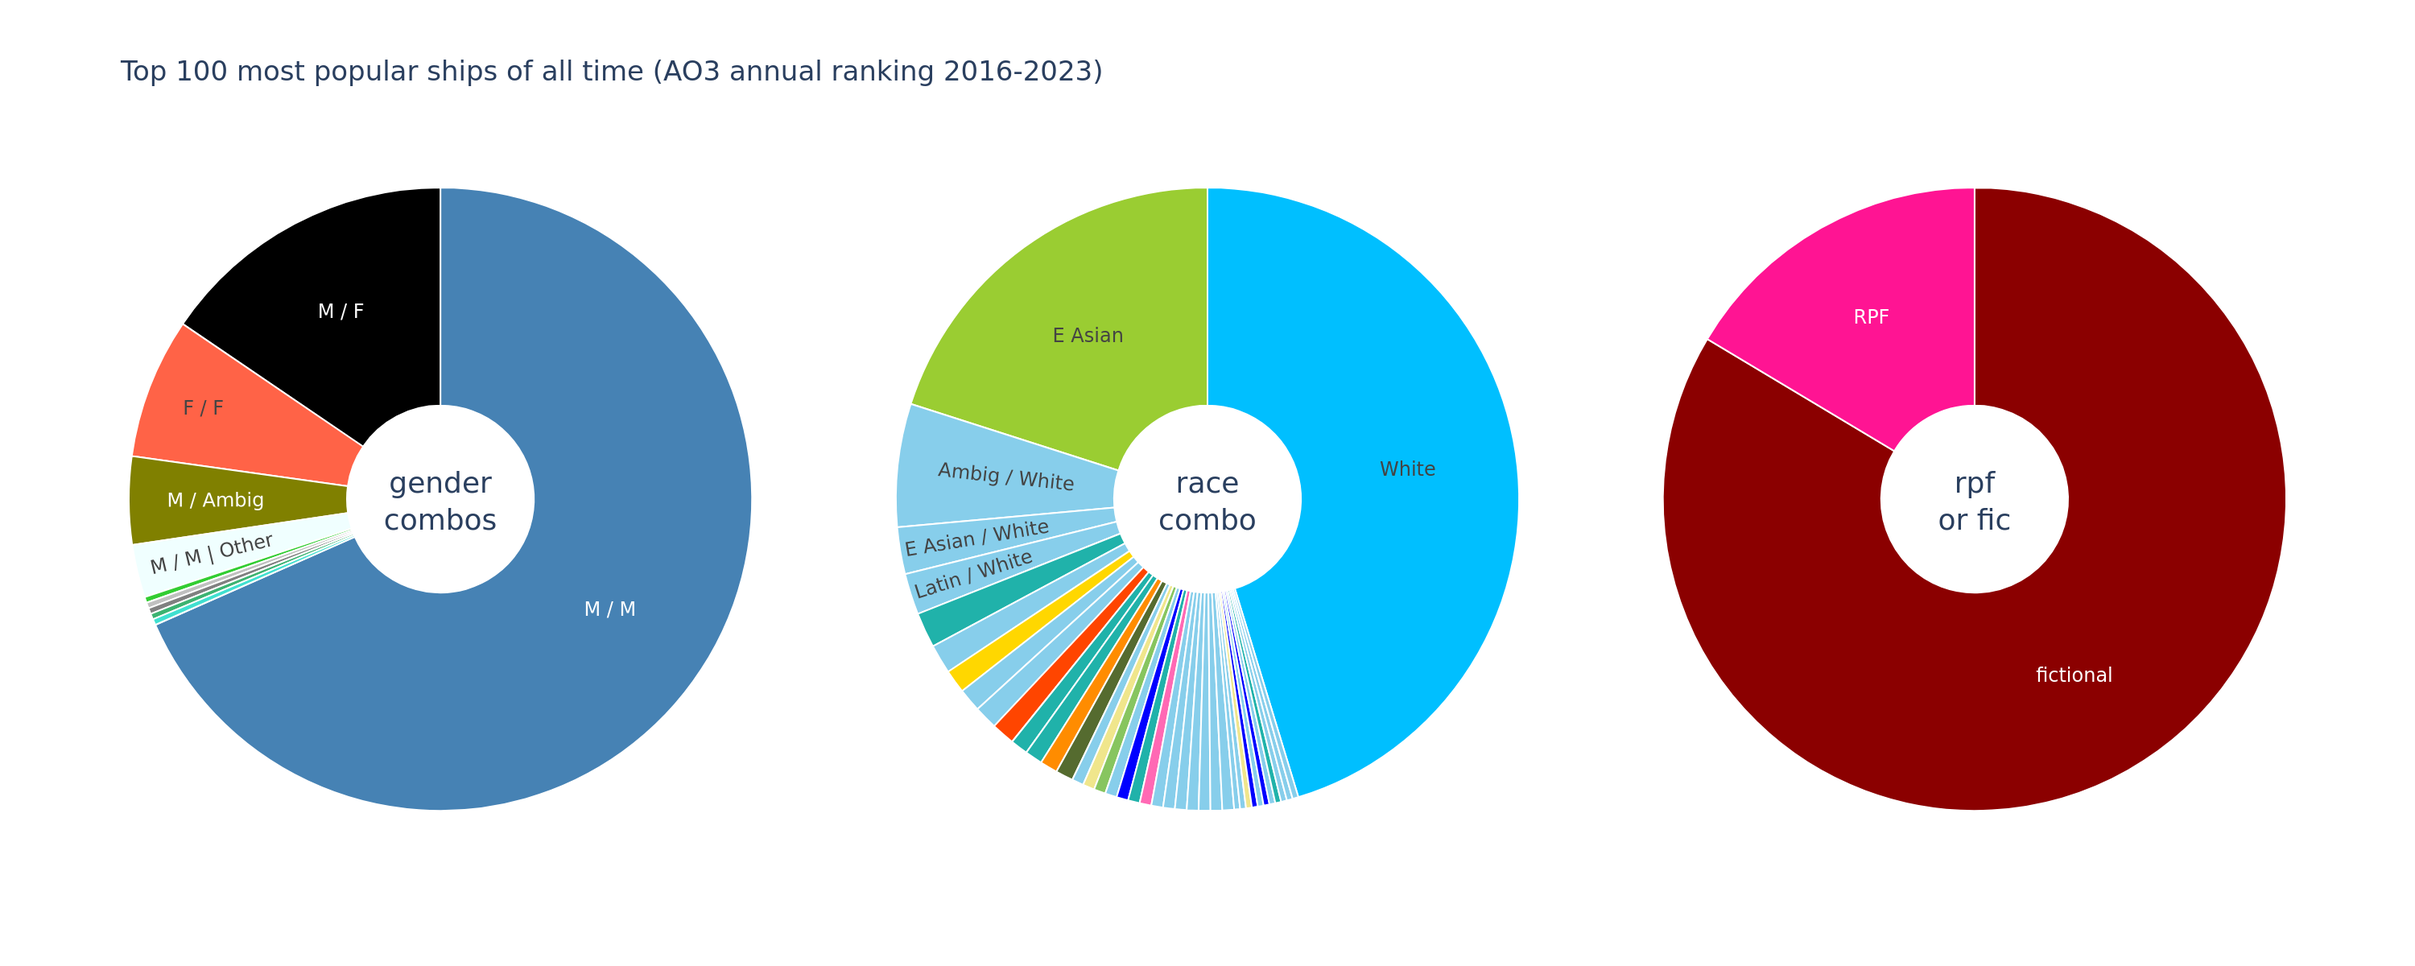
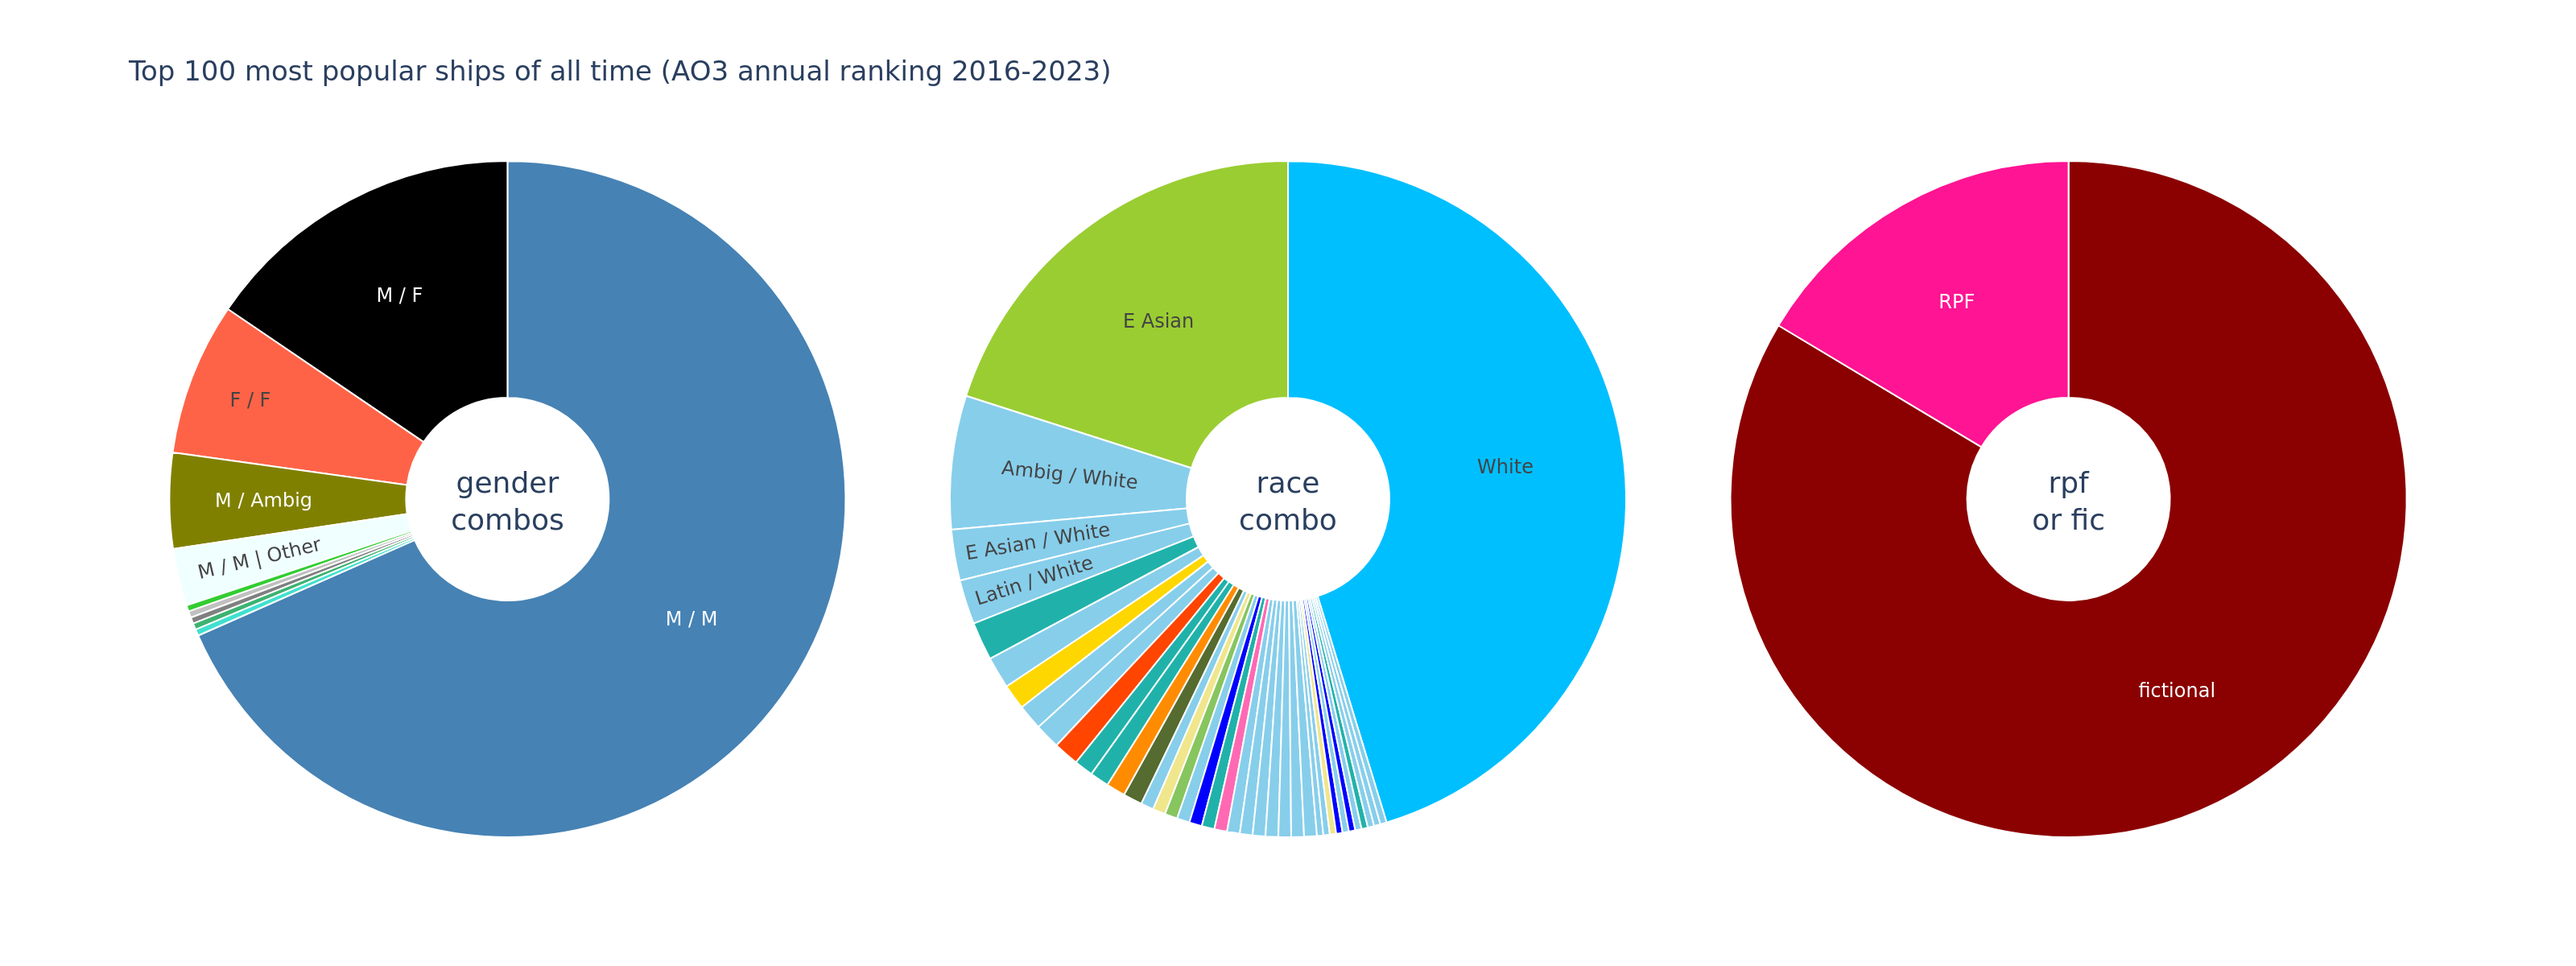
fix spacing issue for top/most popular annual ships

diff --git a/visualisation/ao3_annual_rankings_2016_2023/vis_annual_ranking_run_code.py b/visualisation/ao3_annual_rankings_2016_2023/vis_annual_ranking_run_code.py
@@ -148,7 +148,7 @@ top_10_ships_fig = visualise_top_5(top_10_ships_dict, "pairings", "annual")
 top_10_ships_fig.write_image(
     "visualisation/ao3_annual_rankings_2016_2023/ao3_annual_rankings_charts/top_annual_ships_2016_2023.png", 
     width=2600, 
-    height=2000, 
+    height=1200, 
     scale=2
 )
 
@@ -188,7 +188,7 @@ most_popular_ships_fig.write_image(
 most_popular_demo_fig = visualise_pies(most_popular_ships_df, "most_popular_ships", "annual")
 most_popular_demo_fig.write_image(
     "visualisation/ao3_annual_rankings_2016_2023/ao3_annual_rankings_charts/most_popular_annual_ships_demo_2016_2023.png", 
-    width=1500, 
+    width=1600, 
     height=600, 
     scale=2
 )

diff --git a/visualisation/diagram_code/visualise_tables.py b/visualisation/diagram_code/visualise_tables.py
@@ -46,7 +46,11 @@ def visualise_top_5(input_dict:dict, data_case:str, ranking:str):
         else:
             title = f"Top 10 ships by year{suffix}"
             rank_nos = ranks.top_10_list
-            column_width = [0.75,10.4,2.2,1.7,2.7]
+            if ranking == "overall":
+                column_width = [0.75,10.4,2.2,1.7,2.7]
+            elif ranking == "annual":
+                column_width = [0.75,9,2.2,1.7,2.7]
+
 
     fig = make_subplots_by_year(num_of_years, no_of_columns)
 

diff --git a/visualisation/vis_utils/diagram_utils/make_subplots_by_year.py b/visualisation/vis_utils/diagram_utils/make_subplots_by_year.py
@@ -40,7 +40,7 @@ def make_subplots_by_year(num_of_years:int, num_of_columns:int=False, by_years:b
     spec_row = [type_dict for _ in range(column)]
     spec_list = [spec_row for _ in range(row)]
 
-    if num_of_columns and by_years:
+    if num_of_columns:
         fig = make_subplots(
             rows=row, cols=column, specs=spec_list, 
             horizontal_spacing=0.01, vertical_spacing=0.01
